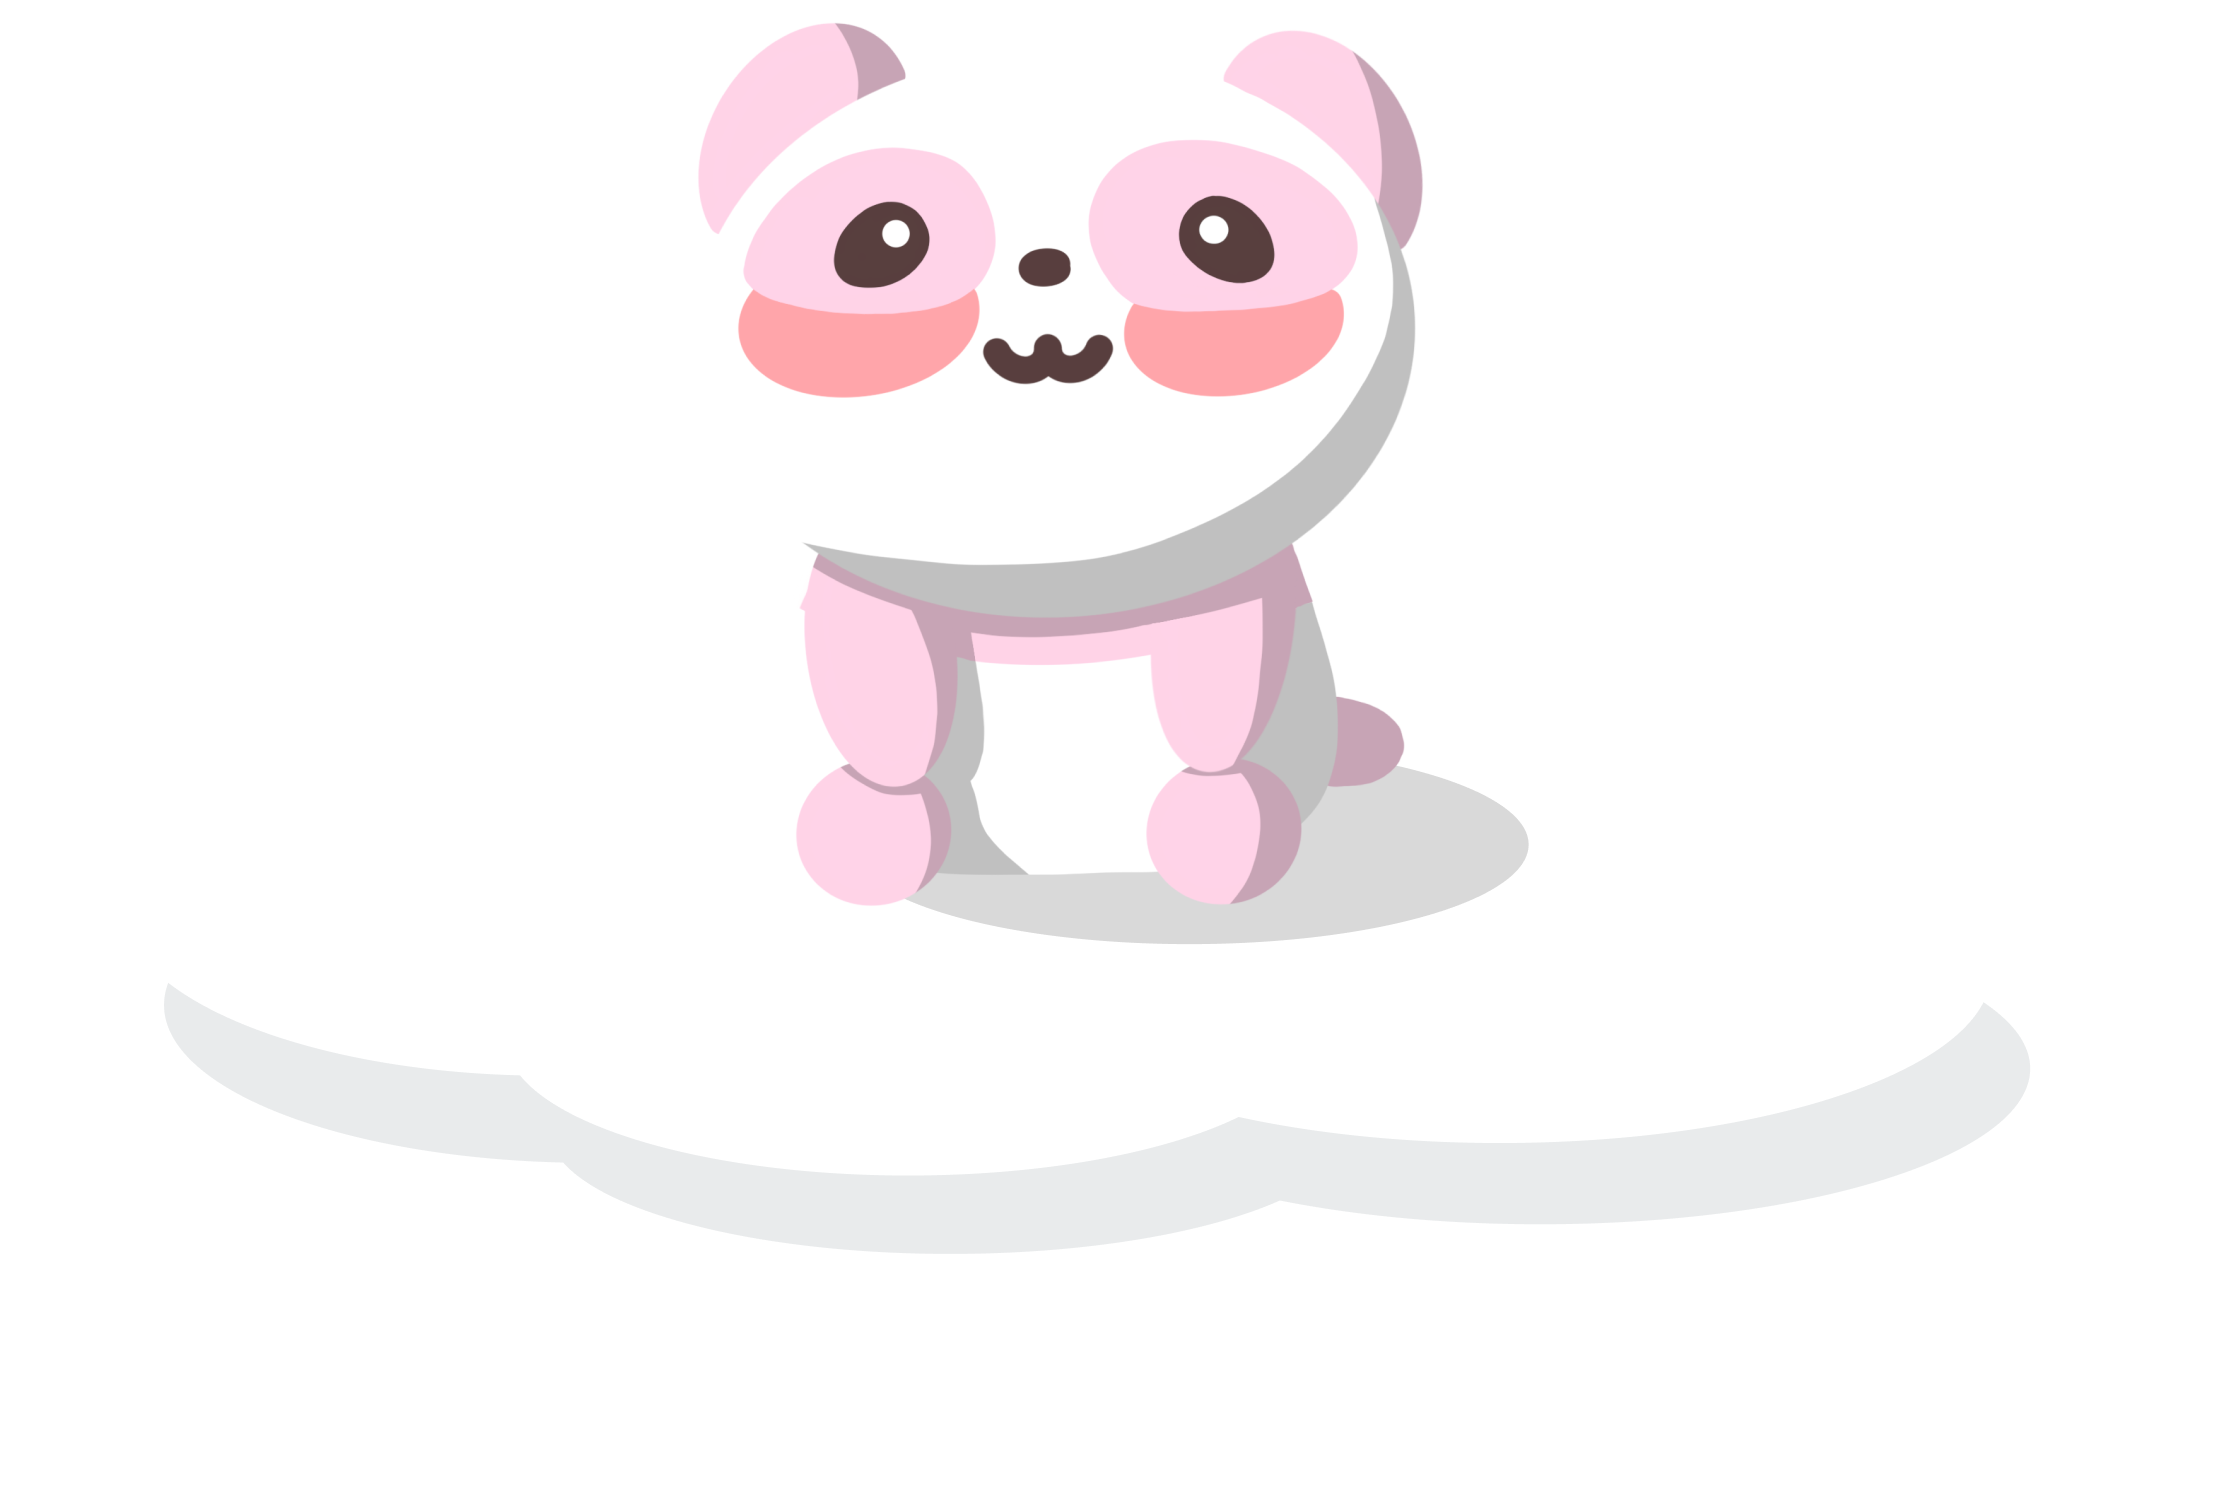
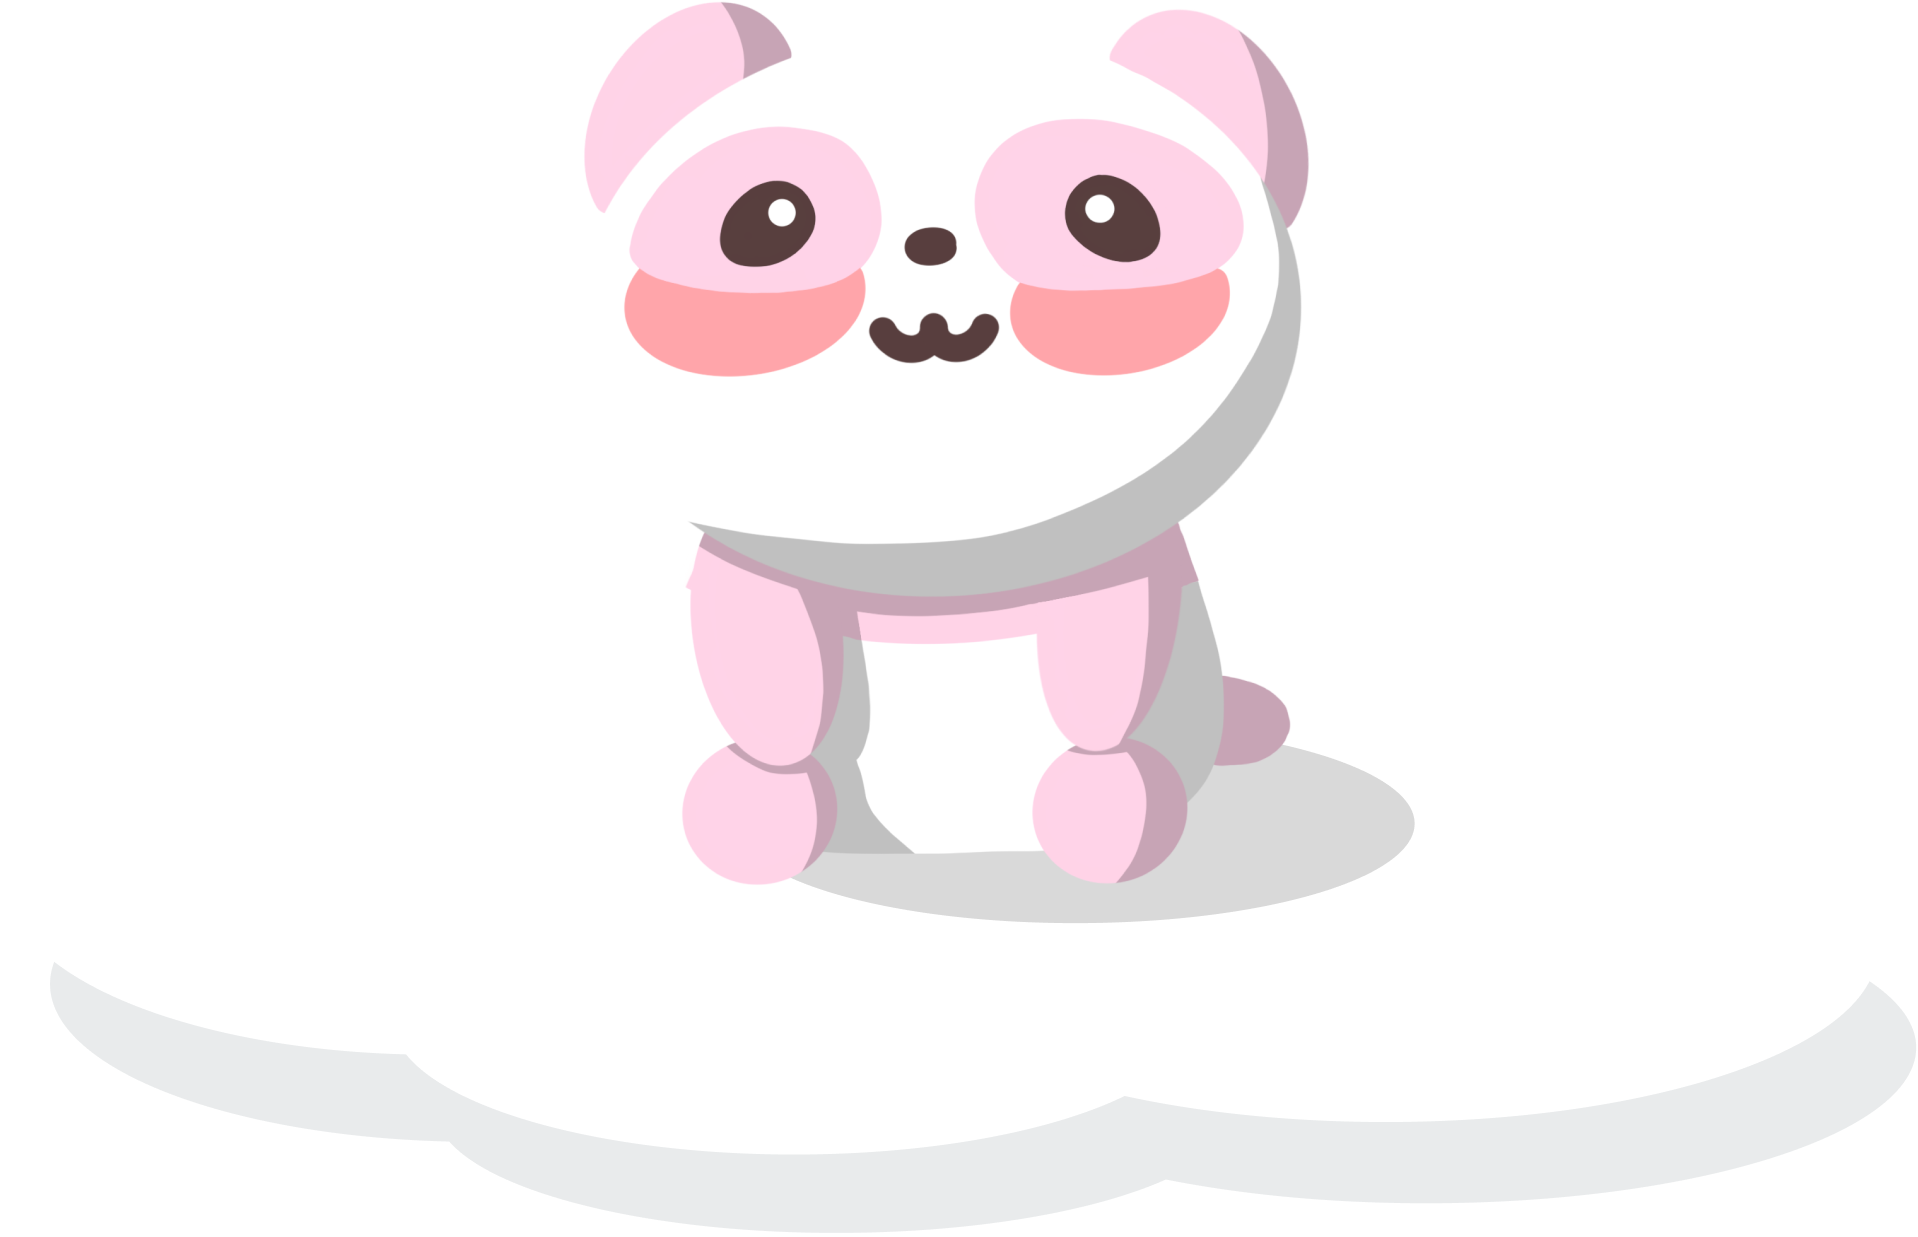
Polished hero section

Changed region(s): [[0.3076, 0.0, 0.7383, 0.768], [0.3384, 0.0, 0.3999, 0.0307], [0.3999, 0.0307, 0.4307, 0.0614]]

diff --git a/src/app/components/HeroSection.jsx b/src/app/components/HeroSection.jsx
@@ -9,60 +9,59 @@ const pixel = Pixelify_Sans({ subsets: ["latin"] });
 export default function HeroSection() {
   return (
     <section>
-      <div className="grid grid-cols-1 lg:grid-cols-9 place-self-center">
-        <div className="col-span-5 place-self-center text-center lg:text-left">
-          <div className="md:mr-10">
-            <h1 className="text-amber-950 mb-2 sm:mb-4 text-2xl sm:text-3xl lg:text-4xl xl:text-5xl">
-              <span className="font-light">hi, i&apos;m </span>
-              <br></br>
-              <span
-                className={`text-4xl md:text-5xl lg:text-6xl xl:text-7xl text-cambridge-blue`}
-              >
-                <TypeAnimation
-                  wrapper="span"
-                  style={{
-                    height: "50px",
-                    width: "625px",
-                    display: "inline-block",
-                  }}
-                  sequence={[
-                    "allison",
-                    1000,
-                    "a web developer",
-                    1000,
-                    "a sushi enthusiast",
-                    1000,
-                  ]}
-                  speed={5}
-                  repeat={Infinity}
-                />
+      <div className="grid grid-cols-1 md:grid-cols-12">
+        <div className="col-span-7 place-item-start text-center md:ml-3 lg:ml-10 xl:ml-15 md:my-auto md:text-left">
+          <h1 className="text-amber-950 flex flex-col mb-2 sm:mb-4 text-2xl sm:text-3xl lg:text-4xl xl:text-5xl">
+            <span className="font-light">hi, i&apos;m </span>
+            <span
+              className={`text-4xl md:text-5xl lg:text-6xl xl:text-7xl text-cambridge-blue`}
+            >
+              <TypeAnimation
+                wrapper="span"
+                style={{
+                  height: "50px",
+                  width: "auto",
+                  display: "inline-block",
+                }}
+                sequence={[
+                  "allison",
+                  1000,
+                  "a web developer",
+                  1000,
+                  "a sushi enthusiast",
+                  1000,
+                ]}
+                speed={5}
+                repeat={Infinity}
+              />
+            </span>
+          </h1>
+          <p className="text-stone-500 text-base sm:text-lg mb-6 lg:text-xl">
+            this is my website :)
+          </p>
+          <div className="place-content-center">
+            <button className="px-6 py-3 w-3/5 md:w-fit rounded-full md:mr-4 bg-gradient-to-br from-cherry-blossom-pink via-cambridge-blue to-celadon hover:bg-champagne-pink text-white">
+              Hire Me
+            </button>
+            <button className="px-1 py-1 w-3/5 md:w-fit rounded-full bg-gradient-to-br from-cherry-blossom-pink via-cambridge-blue to-celadon hover:bg-white text-amber-950 mt-3">
+              <span className="block bg-white hover:bg-snow rounded-full px-5 py-2">
+                Download CV
               </span>
-            </h1>
-            <p className="text-stone-500 text-base sm:text-lg mb-6 lg:text-xl">
-              this is my website :)
-            </p>
-            <div className="place-content-center">
-              <button className="px-6 py-3 w-3/5 md:w-fit rounded-full md:mr-4 bg-gradient-to-br from-cherry-blossom-pink via-cambridge-blue to-celadon hover:bg-champagne-pink text-white">
-                Hire Me
-              </button>
-              <button className="px-1 py-1 w-3/5 md:w-fit rounded-full bg-gradient-to-br from-cherry-blossom-pink via-cambridge-blue to-celadon hover:bg-white text-amber-950 mt-3">
-                <span className="block bg-white hover:bg-snow rounded-full px-5 py-2">
-                  Download CV
-                </span>
-              </button>
-            </div>
+            </button>
           </div>
         </div>
-        <div className="col-span-4 place-self-center lg:place-self-start mt-4 lg:mt-0 floating">
-          <div className="rounded-full bg-champagne-pink !bg-opacity-25 w-[250px] h-[250px] lg:w-[375px] lg:h-[375px] xl:w-[475px] xl:h-[475px] relative">
+        <div className="col-span-5 flex flex-col items-center my-5 lg:mr-10 xl:mr-15">
+          <div className="w-[275px] h-[250px] md:w-[350px] md:h-[325px] lg:w-[425px] lg:h-[400px] xl:w-[500px] xl:h-[475px] relative floating">
+            <div className="rounded-full bg-champagne-pink !bg-opacity-25 w-[200px] h-[200px] md:w-[250px] md:h-[250px] lg:w-[325px] lg:h-[325px] xl:w-[400px] xl:h-[400px] absolute transform -translate-x-1/2 -translate-y-1/2 top-1/2 left-1/2"></div>
             <Image
               src="/images/strawbeari-and-single-cloud.png"
               alt="strawbeari hero image"
-              className="absolute transform -translate-x-1/2 -translate-y-1/2 top-1/2 left-1/2 md:mt-5 "
-              width={500}
-              height={500}
+              className="absolute transform -translate-x-1/2 -translate-y-1/2 top-1/2 left-1/2"
+              width={660}
+              height={462}
             />
           </div>
+          <div className="rounded-full bg-stone-500 !bg-opacity-10 w-[150px] h-[20px] lg:w-[225px] lg:h-[30px] xl:w-[300px] xl:h-[40px] cloudshadow"></div>
         </div>
       </div>
     </section>

diff --git a/src/app/components/AboutSection.jsx b/src/app/components/AboutSection.jsx
@@ -70,18 +70,20 @@ export default function AboutSection() {
   };
 
   return (
-    <section className="text-amber-950 m-10" id="about">
-      <div className="grid grid-cols-1 md:grid-cols-2 gap-8 py-8 px-8 xl:gap-16 sm:py-16 xl:px-16">
-        <div className="rounded-full relative flex place-self-center  bg-snow w-[250] h-[250] lg:w-[325px] lg:h-[325px] xl:w-[400px] xl:h-[400px] drop-shadow-md">
+    <section>
+      <div
+        id="about"
+        className="grid grid-cols-1 md:grid-cols-2 sm:gap-10 xl:gap-16 xl:px-16 text-amber-950 mt-10 md:mt-20 bg-champagne-pink bg-opacity-50 rounded-3xl"
+      >
+        <div className="rounded-full relative flex place-self-center">
           <Image
-            src="/images/profile.png"
+            src="/images/profile2.png"
             alt="profile picture"
-            className="absolute place-items-center drop-shadow-md"
             width={400}
             height={400}
           />
         </div>
-        <div className="mt-4 md:mt-0 text-left flex flex-col h-full">
+        <div className="mt-4 md:mt-0 sm:p-8 text-left flex flex-col h-full">
           <h2 className="text-4xl font-bold mb-4">About Me</h2>
           <p className="text-base lg:text-lg text-stone-500">
             I am an aspiring{" "}
@@ -99,7 +101,7 @@ export default function AboutSection() {
             set. I am a team player and I am excited to work with others to
             create amazing applications.
           </p>
-          <div className="flex flex-row justify-start mt-8">
+          <div className="flex flex-row justify-start mt-8 sm:grid-flow-row">
             <TabButton
               selectTab={() => handleTabChange("skills")}
               active={tab === "skills"}

diff --git a/src/app/globals.css b/src/app/globals.css
@@ -65,3 +65,54 @@ body {
     transform: translateY(0px);
   }
 }
+
+.cloudshadow {
+  -webkit-animation: shrinkgrow 5s linear infinite;
+  animation: shrinkgrow 5s linear infinite;
+}
+
+@-webkit-keyframes shrinkgrow {
+  0% {
+    -webkit-transform: scale(1, 1.2);
+    ;
+    transform: scale(0.8, 0.8);
+    ;
+  }
+
+  50% {
+    -webkit-transform: scale(0.8, 0.8);
+    ;
+    transform: scale(1, 1.2);
+    ;
+  }
+
+  100% {
+    -webkit-transform: scale(1, 1.2);
+    ;
+    transform: scale(0.8, 0.8);
+    ;
+  }
+}
+
+@keyframes shrinkgrow {
+  0% {
+    -webkit-transform: scale(1, 1.2);
+    ;
+    transform: scale(0.8, 0.8);
+    ;
+  }
+
+  50% {
+    -webkit-transform: scale(0.8, 0.8);
+    ;
+    transform: scale(1, 1.2);
+    ;
+  }
+
+  100% {
+    -webkit-transform: scale(1, 1.2);
+    ;
+    transform: scale(0.8, 0.8);
+    ;
+  }
+}
